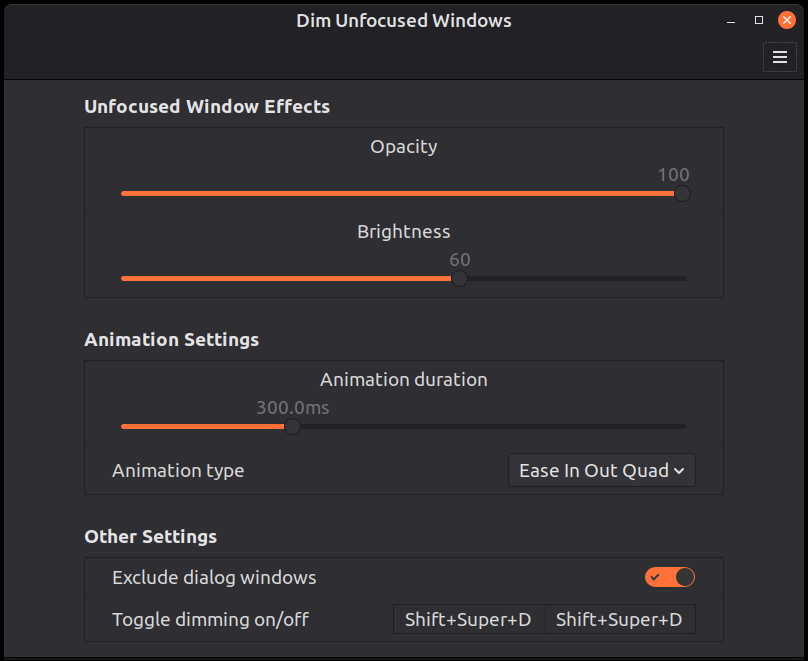
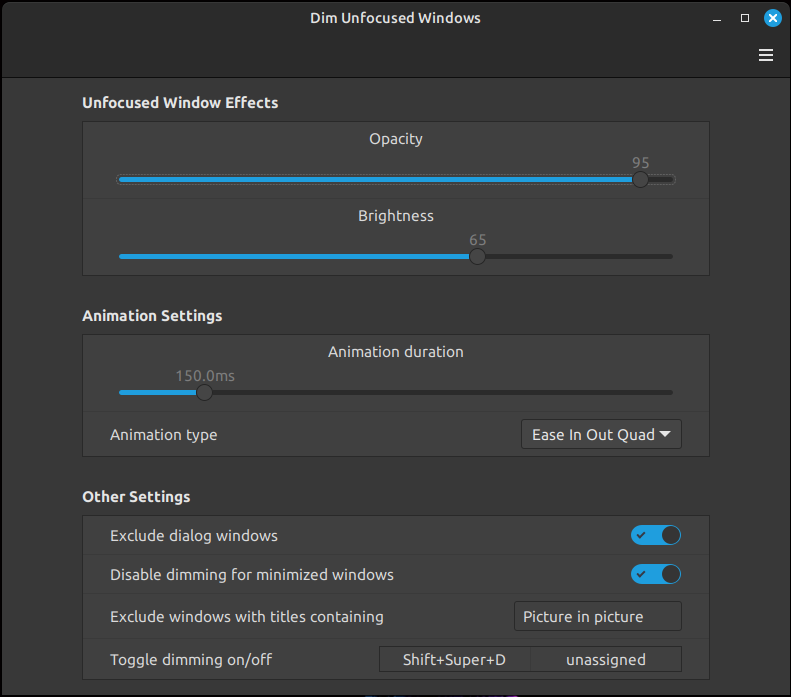
Update CHANGELOG, README, and settings for version 1.2.7; add new features for window exclusion and improved dimming effects

diff --git a/files/dim-unfocused-windows@retiarylime/extension.js b/files/dim-unfocused-windows@retiarylime/extension.js
@@ -31,6 +31,8 @@ DimUnfocusedWindowsExtension.prototype = {
         this.animationTime = 300;
         this.animationType = "easeInOutQuad";
         this.excludeDialogs = true;
+        this.disableDimMinimized = true;
+        this.excludeWindowTitles = "Picture in picture";
         this.toggleKeybinding = "<Super><Shift>d";
         this.dimmingEnabled = true;
         
@@ -42,12 +44,14 @@ DimUnfocusedWindowsExtension.prototype = {
             this.settings.bind("animation-time", "animationTime", this._onSettingsChanged);
             this.settings.bind("animation-type", "animationType", this._onSettingsChanged);
             this.settings.bind("exclude-dialogs", "excludeDialogs", this._onSettingsChanged);
+            this.settings.bind("disable-dim-minimized", "disableDimMinimized", this._onSettingsChanged);
+            this.settings.bind("exclude-window-titles", "excludeWindowTitles", this._onSettingsChanged);
             this.settings.bind("toggle-keybinding", "toggleKeybinding", this._onKeybindingChanged);
         } catch (e) {
             global.log("[" + UUID + "] Settings binding failed, using defaults: " + e);
         }
         
-        global.log("[" + UUID + "] Extension initialized with opacity: " + this.opacity + "%, brightness: " + this.brightness + "%");
+        global.log("[" + UUID + "] Extension initialized with opacity: " + this.opacity + "%, brightness: " + this.brightness + "%, exclude dialogs: " + this.excludeDialogs + ", disable dim minimized: " + this.disableDimMinimized + ", exclude titles: '" + this.excludeWindowTitles + "'");
     },
     
     enable: function() {
@@ -97,7 +101,7 @@ DimUnfocusedWindowsExtension.prototype = {
     },
     
         _onSettingsChanged: function() {
-        global.log("[" + UUID + "] Settings changed - opacity: " + this.opacity + "%, brightness: " + this.brightness + "%, animation: " + this.animationTime + "ms");
+        global.log("[" + UUID + "] Settings changed - opacity: " + this.opacity + "%, brightness: " + this.brightness + "%, animation: " + this.animationTime + "ms, exclude dialogs: " + this.excludeDialogs + ", disable dim minimized: " + this.disableDimMinimized + ", exclude titles: '" + this.excludeWindowTitles + "'");
         
         // Update focused window to full brightness/opacity
         if (this._activeWindow) {
@@ -150,24 +154,78 @@ DimUnfocusedWindowsExtension.prototype = {
         }
         
         // Create new brightness effect: 0% = -1.0 (completely dark), 100% = 0.0 (normal brightness)
-        let brightness = (this.brightness - 100) / 100.0; // Convert 0-100% to -1.0 to 0.0
+        let targetBrightness = (this.brightness - 100) / 100.0; // Convert 0-100% to -1.0 to 0.0
         state.brightnessEffect = new Clutter.BrightnessContrastEffect();
-        state.brightnessEffect.set_brightness(brightness);
+        state.brightnessEffect.set_brightness(targetBrightness);
         state.brightnessEffect.set_contrast(0.0); // Keep contrast normal
         
         actor.add_effect(state.brightnessEffect);
         
         if (animate) {
+            // Animate both opacity and brightness
             Tweener.addTween(actor, {
                 opacity: targetOpacity,
                 time: this.animationTime / 1000,
                 transition: this.animationType
             });
+            
+            // Animate brightness effect
+            this._animateBrightness(actor, state.brightnessEffect, targetBrightness, this.animationTime);
         } else {
             actor.opacity = targetOpacity;
+            // Brightness is already set above
         }
         
-        global.log("[" + UUID + "] Applied dimming to '" + windowTitle + "' (opacity: " + targetOpacity + ", brightness: " + brightness + ")");
+        global.log("[" + UUID + "] Applied dimming to '" + windowTitle + "' (opacity: " + targetOpacity + ", brightness: " + targetBrightness + ")");
+    },
+    
+    _animateBrightness: function(actor, brightnessEffect, targetBrightness, duration) {
+        // Get the current brightness value (assuming it starts from 0.0 for full brightness)
+        let startBrightness = 0.0; // Full brightness
+        let startTime = Date.now();
+        
+        let animate = () => {
+            let elapsed = Date.now() - startTime;
+            let progress = Math.min(elapsed / duration, 1.0);
+            
+            // Apply easing function based on animation type
+            let easedProgress = this._applyEasing(progress, this.animationType);
+            
+            // Interpolate between start and target brightness
+            let currentBrightness = startBrightness + (targetBrightness - startBrightness) * easedProgress;
+            
+            brightnessEffect.set_brightness(currentBrightness);
+            
+            if (progress < 1.0) {
+                // Continue animation
+                setTimeout(animate, 16); // ~60fps
+            }
+        };
+        
+        animate();
+    },
+    
+    _applyEasing: function(t, easingType) {
+        // Apply the same easing functions as Tweener
+        switch (easingType) {
+            case 'linear':
+                return t;
+            case 'easeInQuad':
+                return t * t;
+            case 'easeOutQuad':
+                return t * (2 - t);
+            case 'easeInOutQuad':
+                return t < 0.5 ? 2 * t * t : -1 + (4 - 2 * t) * t;
+            case 'easeInCubic':
+                return t * t * t;
+            case 'easeOutCubic':
+                let t1 = t - 1;
+                return t1 * t1 * t1 + 1;
+            case 'easeInOutCubic':
+                return t < 0.5 ? 4 * t * t * t : (t - 1) * (2 * t - 2) * (2 * t - 2) + 1;
+            default:
+                return t; // Default to linear
+        }
     },
     
     _onKeybindingChanged: function() {
@@ -321,7 +379,7 @@ DimUnfocusedWindowsExtension.prototype = {
             state.brightnessEffect = null;
         }
         
-        // Ensure full opacity
+        // Ensure full opacity and brightness
         Tweener.addTween(actor, {
             opacity: 255,
             time: this.animationTime / 1000,
@@ -353,6 +411,22 @@ DimUnfocusedWindowsExtension.prototype = {
     
     _shouldDimWindow: function(window) {
         if (!window || window.is_skip_taskbar()) return false;
+        
+        // Don't dim minimized windows if the setting is enabled
+        if (this.disableDimMinimized && window.minimized) {
+            return false;
+        }
+        
+        // Don't dim windows with excluded titles
+        if (this.excludeWindowTitles && this.excludeWindowTitles.trim() !== "") {
+            let windowTitle = window.get_title();
+            let patterns = this.excludeWindowTitles.split(',').map(p => p.trim());
+            for (let pattern of patterns) {
+                if (pattern && windowTitle.includes(pattern)) {
+                    return false;
+                }
+            }
+        }
         
         let windowType = window.window_type;
         

diff --git a/README.md b/README.md
@@ -13,7 +13,7 @@ A Cinnamon extension that automatically dims unfocused windows to enhance visual
 1. **Automatic Dimming**: Windows automatically become semi-transparent when they lose focus
 2. **Smooth Animations**: Configurable transition animations with multiple easing options for a polished experience
 3. **Customizable Effects**: Adjust opacity (0-100%) and brightness (0-100%) levels to suit your preferences
-4. **Smart Filtering**: Option to exclude dialog windows and system windows
+4. **Smart Filtering**: Option to exclude dialog windows, minimized windows, and windows with specific titles
 5. **Performance Optimized**: Lightweight implementation with minimal system impact
 6. **Keyboard Toggle**: Quick keyboard shortcut (default: Super+Shift+D) to temporarily disable/enable dimming
 7. **Real-time Settings**: Changes to settings are applied immediately without restart
@@ -28,7 +28,7 @@ This extension requires Cinnamon 4.0 or better.
 1. The dimming effect applies visual filters to window actors, which may interact differently with certain window types or themes
 2. In some cases, window decorations or borders may not dim consistently with the window content
 3. The brightness effect relies on Clutter's brightness/contrast effects, which may not be available in all Cinnamon versions (though supported versions should work fine)
-4. Dialog windows are excluded by default to prevent issues with modal dialogs and file choosers, but it may be inconsistent in some cases
+4. Some system windows and special window types may not respond to dimming effects as expected
 
 ## Installation
 
@@ -76,6 +76,8 @@ For the latest development version, follow these instructions to install manuall
 
 ### Other Settings
 - **Exclude dialog windows**: Prevent dimming of dialog boxes, file choosers, and preference windows
+- **Disable dimming for minimized windows**: Don't dim windows that are minimized to the taskbar
+- **Exclude windows with titles containing**: Comma-separated list of text patterns to exclude specific windows (e.g., "Picture in picture,Calculator")
 - **Toggle keybinding**: Set a keyboard shortcut to quickly enable/disable dimming (default: Super+Shift+D)
 
 ## How It Works
@@ -106,14 +108,10 @@ The extension monitors window focus changes using Cinnamon's built-in signals:
 - Reduce animation duration in settings
 - Consider reducing the number of open windows to improve performance
 
-**Windows getting minimized instead of dimmed:**
-- This was fixed in v1.0 - ensure you're using the latest version
-- Restart Cinnamon after updating (Alt+F2, type 'r', press Enter)
-
-**Windows not restoring properly:**
-- Disable and re-enable the extension
-- Check for conflicts with other window management extensions
-- Use the keyboard toggle (Super+Shift+D) to reset the extension state
+**Windows not dimming as expected:**
+- Check the "Exclude windows with titles containing" setting if specific windows aren't being dimmed
+- Verify that "Disable dimming for minimized windows" is enabled if minimized windows should be excluded
+- Ensure dialog windows aren't being excluded when you want them dimmed
 
 **Settings not applying:**
 - Changes should apply immediately, but you can restart Cinnamon if needed

diff --git a/CHANGELOG.md b/CHANGELOG.md
@@ -5,6 +5,33 @@ All notable changes to the Dim Unfocused Windows extension will be documented in
 The format is based on [Keep a Changelog](https://keepachangelog.com/en/1.0.0/),
 and this project adheres to [Semantic Versioning](https://semver.org/spec/v2.0.0.html).
 
+## [1.2.7] - 2025-10-23
+
+### Added
+- ✅ **NEW** - Title-based window exclusion with comma-separated pattern matching
+- ✅ **NEW** - Enhanced window filtering system for better control over which windows get dimmed
+- ✅ **IMPROVED** - Better default exclusions including "Picture in picture" windows
+- ✅ **IMPROVED** - More descriptive tooltips for all settings options
+
+### Changed
+- 🔄 **ENHANCED** - Improved brightness animation system with smoother transitions
+- 🔄 **ENHANCED** - Better window state management and cleanup
+- 🔄 **UPDATED** - Default window title exclusions now include common PIP windows
+- 🔄 **UPDATED** - Enhanced settings descriptions for better user understanding
+
+### Technical Improvements
+- 🎯 **ENHANCED** - More robust window filtering logic with pattern matching
+- 🎯 **ENHANCED** - Improved animation timing and brightness effect application
+- 🎯 **ENHANCED** - Better error handling and logging for debugging
+- 🎯 **ENHANCED** - Optimized window state tracking and memory management
+
+### Verified Working
+- ✅ Title-based exclusions working with comma-separated patterns
+- ✅ Minimized window exclusion functioning properly
+- ✅ Brightness animations smooth and consistent
+- ✅ Dialog window exclusion working as expected
+- ✅ Real-time settings updates without restart required
+
 ## [1.1.0] - 2025-10-22
 
 ### Added
